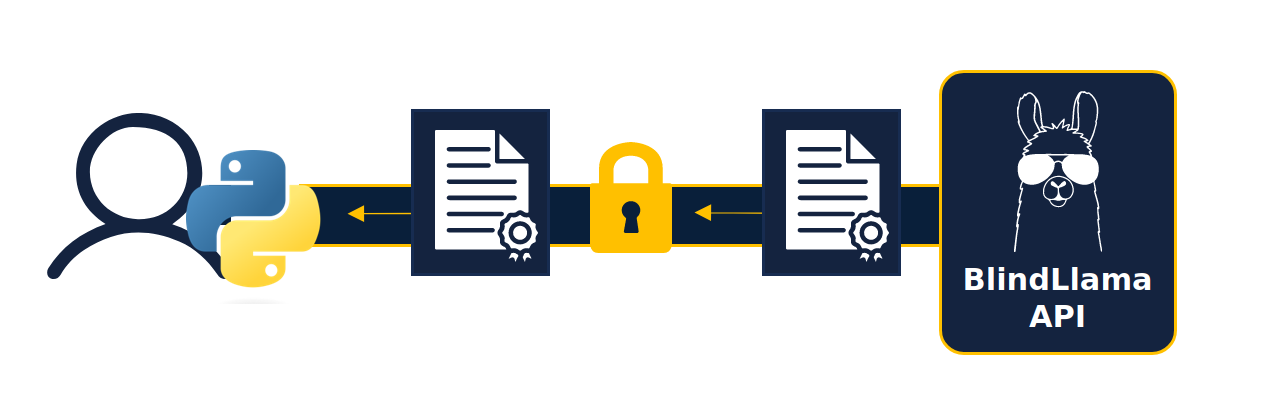
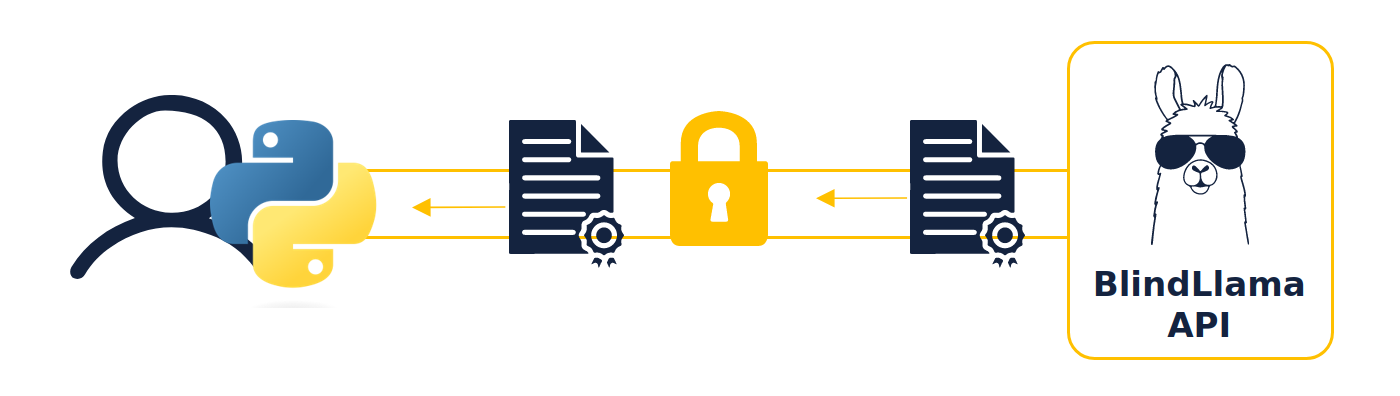
docs: dark images added

Changed region(s): [[0.0308, 0.0909, 0.955, 0.9091]]

diff --git a/docs/stylesheets/extra.css b/docs/stylesheets/extra.css
@@ -129,5 +129,9 @@ img[alt=tcb-light] { max-width: 250px; display: block; margin-left: auto; margin
 img[alt=tcb-dark] { max-width: 250px; display: block !important; margin-left: auto !important; margin-right: auto !important;}
 img[alt=trust-model-light] { max-width: 600px; display: block; margin-left: auto; margin-right: auto;}
 img[alt=trust-model-dark] { max-width: 600px; display: block; margin-left: auto; margin-right: auto;}
+img[alt=matching-light] { max-width: 600px; display: block; margin-left: auto; margin-right: auto;}
+img[alt=matching-dark] { max-width: 600px; display: block; margin-left: auto; margin-right: auto;}
+img[alt=certificates-light] { max-width: 600px; display: block; margin-left: auto; margin-right: auto;}
+img[alt=certificates-dark] { max-width: 600px; display: block; margin-left: auto; margin-right: auto;}
 
 
